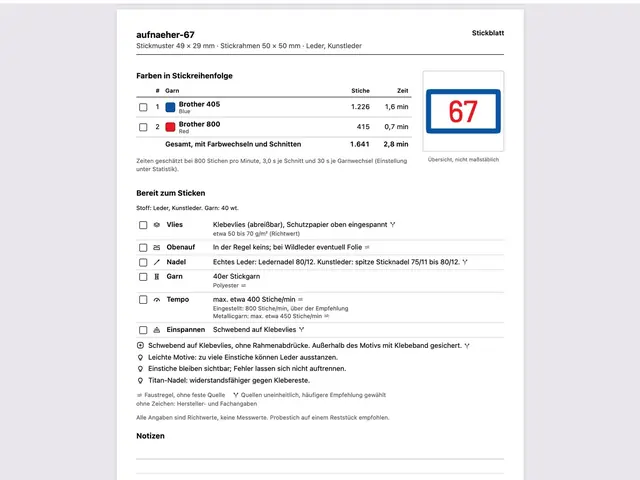
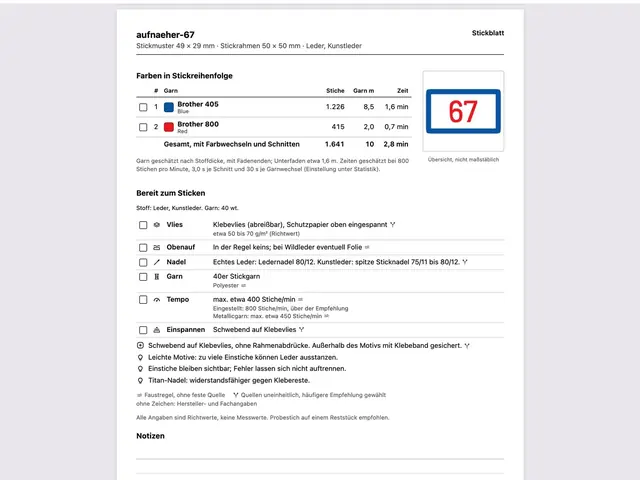
Teil 10 neu aufgenommen: Länge 2:46, neue Videokarte

Changed region(s): [[0.2188, 0.1875, 0.6562, 0.375]]

diff --git a/src/videos/catalog.ts b/src/videos/catalog.ts
@@ -166,11 +166,11 @@ export const VIDEOS: Video[] = [
     key: '10-vorschau-und-speichern',
     part: 10,
     title: { de: 'Vorschau und Speichern', en: 'Preview and saving' },
-    length: '2:40',
+    length: '2:46',
     group: 'file',
     goal: { de: 'Du siehst dein Stickmuster wie echt auf dem Stoff, legst Vlies und Nadel bereit und speicherst für deine Maschine.', en: 'You see your design as if real on the fabric, get stabilizer and needle ready and save for your machine.' },
     files: ['aufnaeher-67.dst'],
-    published: '2026-10-08T21:32:32+02:00',
+    published: '2026-10-11T21:06:20+02:00',
   },
   {
     key: '11-fuellungen',
